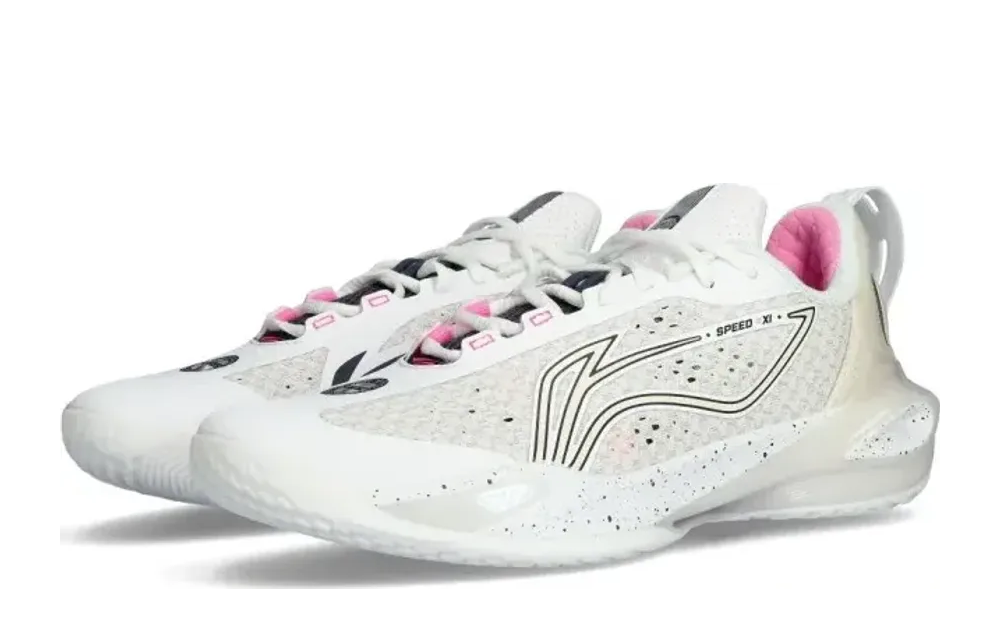
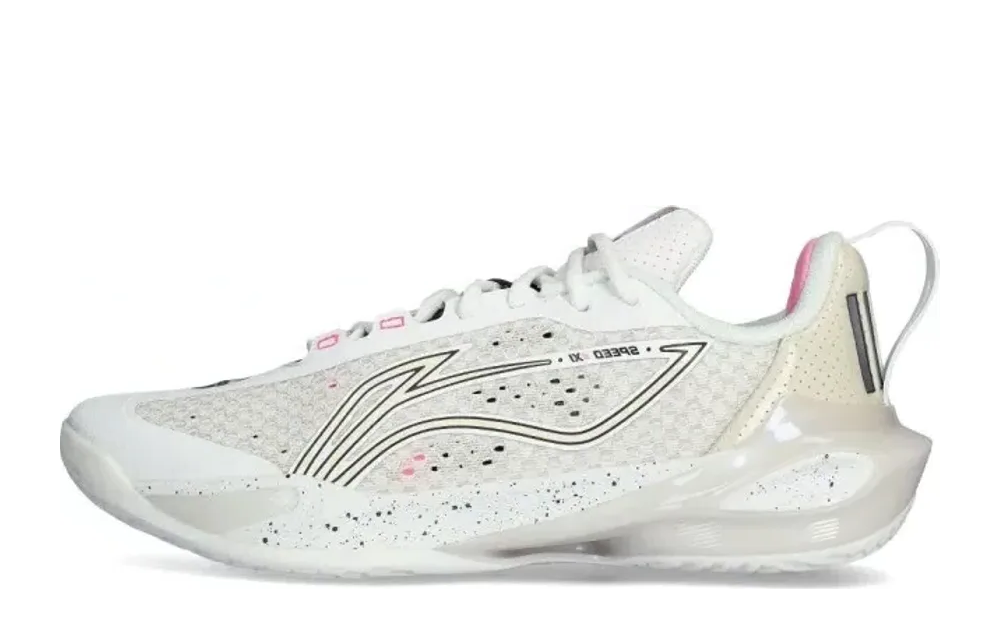
Uniformity: replace 10 angled/pair shoe images with clean side-profiles
Re-sourced 3/4-angle, pair, and rear-view images with straight lateral single-shoe
shots on white, verified toe-left at full resolution: ANTA Kai 2, ANTA KT9,
Nike Shai 001, Rigorer AR1, Rigorer AR2, SPO Easy 1, SPO Game 1 High, UA Curry 12,
Li-Ning Speed XI, New Balance Fresh Foam BB v2. Brings these in line with the
clean side-profile look of the rest of the grid. (shoeImagesOriginal updated to
the new sources for the lightbox.)

Changed region(s): [[0.062, 0.304, 0.961, 0.9424]]

diff --git a/src/data/reviews.js b/src/data/reviews.js
@@ -2121,7 +2121,7 @@ export const shoeImagesOriginal = {
   "Nike KD 14":                         "https://images.stockx.com/360/Nike-KD-14-TB-White-Black/Images/Nike-KD-14-TB-White-Black/Lv2/img01.jpg?w=1000&q=60&dpr=1&updated_at=1652300021",
   "Nike Sabrina 2":                     "https://www.kicksown.com/cdn/shop/files/46_82d9d6e9-bc13-4555-9ab4-c5d671c08b16.jpg?v=1754995618&width=960",
   "Nike AE 1":                          "https://www.solestop.com/cdn/shop/files/adidas-men-anthony-edwards-ae-1-low-3ssb-cloud-white-acid-orange-jr3915-120_1200x.jpg?v=1759315220",
-  "Nike Shai 001":                      "https://www.basketballemotion.com/imagesarticulos/338303/750/zapatillas-converse-shai-001-white-white-white-0.webp",
+  "Nike Shai 001":                      "https://www.basketballemotion.com/imagesarticulos/338303/750/zapatillas-converse-shai-001-white-white-white-1.webp",
   "Nike GT Cut 3":                      "https://www.kicksown.com/cdn/shop/files/6_731595d2-8628-47dc-9b79-a1ec8b3c9fae.jpg?v=1754387252&width=960",
   "Nike GT Cut 4":                      "https://www.kicksown.com/cdn/shop/files/1_c0874a3a-715d-4aaf-aecb-5157d64f6b3b.jpg?v=1768816288&width=960",
   "Nike Ja 3":                          "https://www.kicksown.com/cdn/shop/files/24_c985aeab-8b27-400c-8d57-d089d4f8d65c.jpg?v=1755594063&width=960",
@@ -2141,7 +2141,7 @@ export const shoeImagesOriginal = {
   "Li-Ning All City 14":                "https://wowsole.com/wp-content/uploads/2025/12/Way-of-Wade-All-City-14-Caution.jpg",
   "ANTA Kai 3":                         "https://www.basketballemotion.com/imagesarticulos/338651/750/zapatillas-anta-kai-3-432-hz-purple-red-0.webp",
   "Jordan Tatum 3":                     "https://www.kicksown.com/cdn/shop/files/079204c899792b7f094aa45a381f1b65_1_5dfc9c0b-c135-4a8e-b435-4992be6489aa.jpg?v=1761116343&width=960",
-  "UA Curry 12":                        "https://www.basketballemotion.com/imagesarticulos/236924/750/zapatillas-under-armour-curry-12-shooting-star-white-0.webp",
+  "UA Curry 12":                        "https://www.basketballemotion.com/imagesarticulos/236924/750/zapatillas-under-armour-curry-12-shooting-star-white-1.webp",
   "Puma MB.03":                         "https://images.puma.com/image/upload/f_auto,q_auto,b_rgb:fafafa,w_600,h_600/global/310519/03/sv01/fnd/PNA/fmt/png/MB.03-Lo-Team-Men%27s-Basketball-Shoes",
   "Nike Giannis Immortality 3":         "https://www.basketballemotion.com/imagesarticulos/226927/750/zapatilla-nike-giannis-immortality-3-white-lt-photo-blue-lt-laser-orange-0.webp",
   "Puma Scoot Zero 1":                  "https://images.puma.com/image/upload/f_auto,q_auto,b_rgb:fafafa,w_600,h_600/global/310415/05/sv01/fnd/PNA/fmt/png/Scoot-Zeros-Men%27s-Basketball-Shoes",
@@ -2150,14 +2150,14 @@ export const shoeImagesOriginal = {
   "Reebok Engine A":                    "https://cdn.media.amplience.net/i/scheelspoc/19880674482?w=1200&h=1200&fmt=auto&v=1",
   "Adidas Kobe Crazy 8":                "https://www.topsandbottomsusa.com/cdn/shop/files/adidas-kobe-bryants-crazy-8-black-white-shoes-if2448_2.webp?v=1723497052&width=1500",
   "Li-Ning Wade 808 5 Ultra":           "https://wowsole.com/wp-content/uploads/2025/03/Wade-808-5-Ultra-Dynasty-White-Gold-10-700x700.jpg",
-  "ANTA Kai 2":                         "https://www.basketballemotion.com/imagesarticulos/271229/750/zapatillas-anta-kai-2-moon-gris-0.webp",
-  "Rigorer AR1":                        "https://www.basketballemotion.com/imagesarticulos/235859/750/zapatillas-rigorer-ar1-coocon-white-silver-0.webp",
-  "Rigorer AR2":                        "https://www.basketballemotion.com/imagesarticulos/262491/750/zapatillas-rigorer-ar2-snowman-azul-0.webp",
+  "ANTA Kai 2":                         "https://www.basketballemotion.com/imagesarticulos/271229/750/zapatillas-anta-kai-2-moon-gris-1.webp",
+  "Rigorer AR1":                        "https://antosports.com/cdn/shop/files/IMG_1788_1.jpg?v=1699974244&width=1946",
+  "Rigorer AR2":                        "https://antosports.com/cdn/shop/files/F5AAB9FE-F5E2-43C7-8B6A-E2E816272C83.jpg?v=1749782687&width=1946",
   "Li-Ning Sonic 11":                   "https://wowsole.com/wp-content/uploads/2023/02/LiNing-Sonic-11-Professional-Basketball-Shoes-white-blue-ride-waves.jpg",
   "Adidas Don Issue 7":                 "https://www.kicksown.com/cdn/shop/files/079204c899792b7f094aa45a381f1b65_1_d7a2a5b4-1921-49e0-9d5d-eaae3b971b08.jpg?v=1761126309&width=960",
   "Adidas Harden 9":                    "https://www.stripe3.com/cdn/shop/files/JR2504_1_FOOTWEAR_Photography_SideLateralCenterView_transparent_3a7b0590-ae97-4a2e-81f8-ebb5272cfda8.png",
   "Adidas Crazy Energy":                "https://www.solestop.com/cdn/shop/files/0004_KI3197.jpg?v=1778879577",
-  "SPO Game 1 High":                    "https://seriousplayeronly.com/cdn/shop/files/game1himvp2.jpg?v=1764497130&width=1200",
+  "SPO Game 1 High":                    "https://seriousplayeronly.com/cdn/shop/files/gamehihater1.jpg?v=1764482454&width=3900",
   "Nike Zoom Freak 5":                  "https://d3pnpe87i1fkwu.cloudfront.net/IMG/019186-nike-zoom-freak-5-dz2944-600_585x585.png",
   "Nike Ja 2":                          "https://www.kicksown.com/cdn/shop/files/22_aeb3fa33-e72f-42e0-ba70-416242deb822.jpg?v=1755679589&width=960",
   "Nike Kobe 8 Protro":                 "https://www.kicksown.com/cdn/shop/files/7_99448d03-6b4a-46c7-a408-1f49ac2d69ed.jpg?v=1764330213&width=960",
@@ -2168,18 +2168,18 @@ export const shoeImagesOriginal = {
   "New Balance TWO WXY V5":             "https://www.leagueoutfitters.com/cdn/shop/files/293641855_e418c255-39aa-47da-9940-b2ce95d025d9.jpg",
   "Puma All-Pro Nitro Elite":           "https://images.puma.com/image/upload/f_auto,q_auto,b_rgb:fafafa,w_600,h_600/global/311262/01/sv01/fnd/PNA/fmt/png/All-Pro-NITRO%E2%84%A2-Elite-Men%27s-Basketball-Shoes",
   "ANTA KT7":                           "https://antosports.com/cdn/shop/products/8E2DC253-2CE8-4297-8725-9EC48820C60D.jpg?v=1717754627&width=960",
-  "ANTA KT9":                           "https://images.squarespace-cdn.com/content/v1/5f039f1bcb8f8859e477beef/1708321575063-Q5VD3F83BAAJV6OYCN2W/Anta+KT9+Rocco+Side+Straight.jpg",
+  "ANTA KT9":                           "https://images.squarespace-cdn.com/content/v1/5f039f1bcb8f8859e477beef/1721711565740-Z7CNDV5KA10M0UWMOTZR/Anta+KT9+Spring+Side+View.jpg",
   "Adidas Harden Vol 8":                "https://www.basketballemotion.com/imagesarticulos/234812/750/zapatillas-adidas-harden-volume-8-purple-burst-core-black-silver-met.-0.webp",
-  "SPO Easy 1":                         "https://seriousplayeronly.com/cdn/shop/files/Image_20240927192807.jpg?v=1731595600&width=960",
+  "SPO Easy 1":                         "https://seriousplayeronly.com/cdn/shop/files/aa906445a034ceb421870585775fde7.jpg?v=1739344942",
   "Nike GT Cut 1":                      "https://www.kicksown.com/cdn/shop/files/41_78075556-5645-4c19-a385-db370cb6d936.jpg?v=1754390470&width=960",
   "Jordan Luka 4":                      "https://cdn1.basket4ballers.com/281042-large_default/jordan-luka-4-gone-fishing-ib7903-600.jpg",
   "Nike Zion 3 SE":                     "https://footdistrict.com/cdn/shop/files/sneakers-jordan-zion-3-se-fn1714-040-0.jpg",
   "Adidas Trae Young 2":                "https://www.solestop.com/cdn/shop/files/adidas-basketball-men-trae-young-2-black-white-h06477-736.jpg?v=1762290097",
   "Adidas Trae Unlimited 2 Low":        "https://cdn.sportshop.com/catalog/product/1500/1500/1/8/180875_1.jpg",
   "Nike Book 1":                        "https://www.dtlr.com/cdn/shop/files/Nike_FJ4249_20101_M014.jpg?v=1714053171",
-  "Li-Ning Speed XI":                   "https://www.basketballemotion.com/imagesarticulos/261894/750/zapatillas-li-ning-speed-xi-blanco-0.webp",
+  "Li-Ning Speed XI":                   "https://www.basketballemotion.com/imagesarticulos/261894/750/zapatillas-li-ning-speed-xi-blanco-1.webp",
   "ANTA Swagger 1.0":                   "https://www.anta.ph/cdn/shop/files/S72677b367833406a9956c841f5b2ea24t.jpg?v=1724226897&width=960",
-  "New Balance Fresh Foam BB v2":       "https://www.prodirectsport.com/cdn/shop/files/1016845_main.jpg?v=1774014934&width=960",
+  "New Balance Fresh Foam BB v2":       "https://www.leagueoutfitters.com/cdn/shop/files/300435952.png?v=1775665980&width=1500",
   "Air Jordan 38 Low":                  "https://cdn2.basket4ballers.com/227639-large_default/air-jordan-38-low-fresh-start-fd2326-100.jpg",
   "Puma MB.01 Low":                     "https://images.puma.com/image/upload/f_auto,q_auto,b_rgb:fafafa,w_600,h_600/global/311401/01/sv01/fnd/PNA/fmt/png/MB.01-Alien-Safari-Men%27s-Basketball-Shoes",
   "Li-Ning Liren 4 v2":                 "https://www.kicksown.com/cdn/shop/files/20250310180132.jpg?v=1741600958&width=960",
